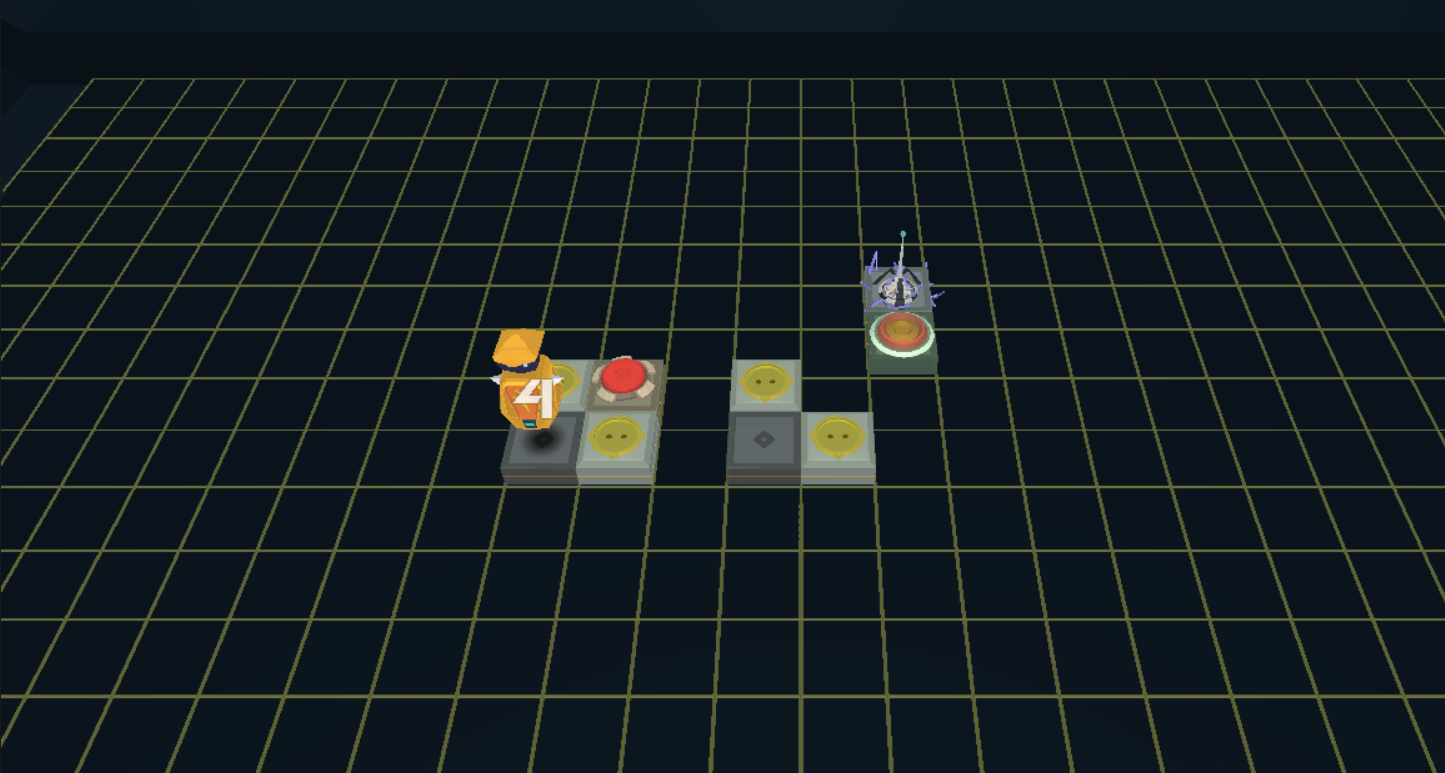
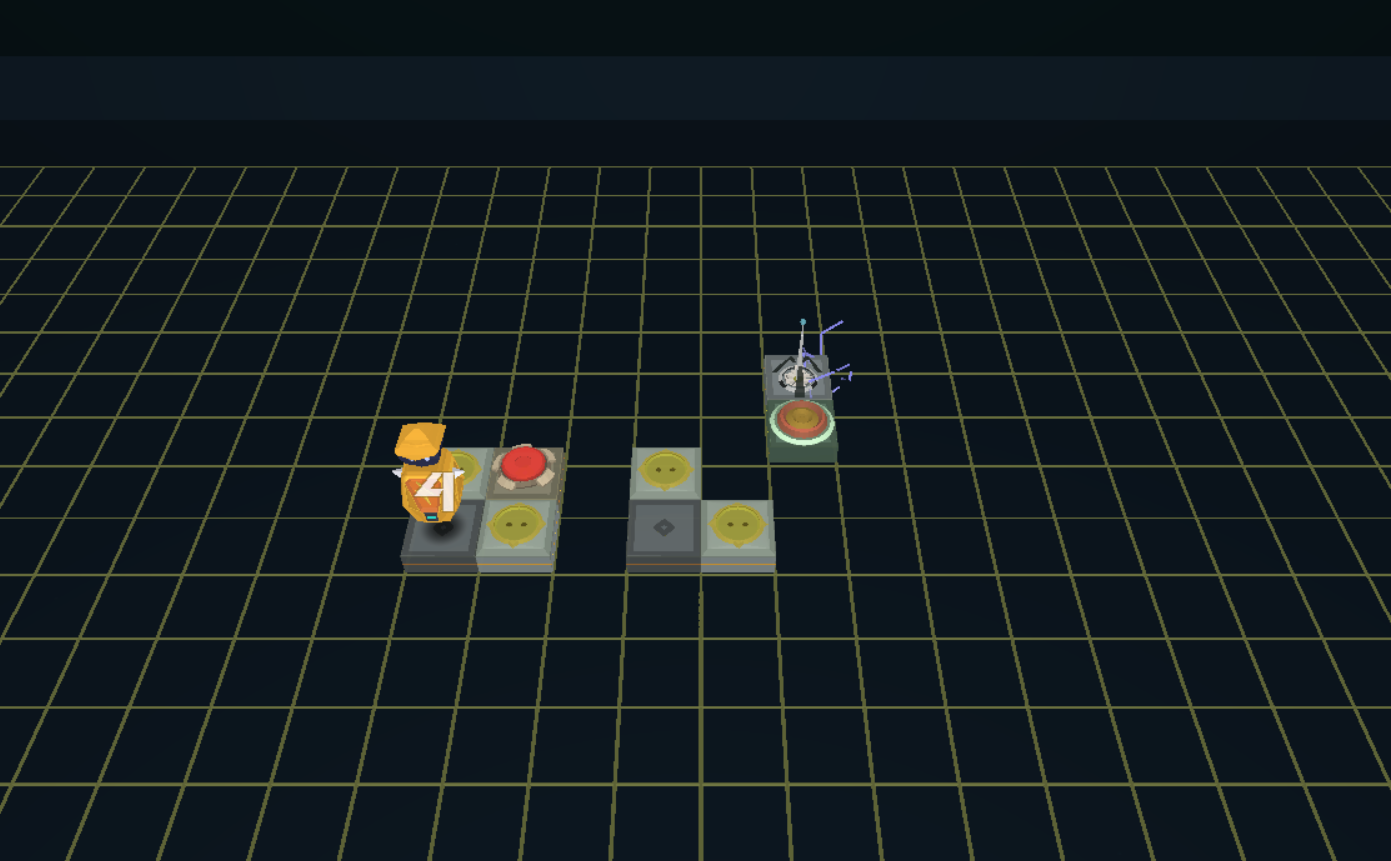
追加したステージの画像の拡縮がバラバラだったので修正

diff --git a/Scene.cpp b/Scene.cpp
@@ -254,8 +254,7 @@ void SceneGame::DrawSprite()
 	obj[0].DrawBoxSprite({ 160,50,0 }, 0.2f, { 1.0f,1.0f,1.0f,1.0f }, scene->texhandle[3]);
 	obj[1].DrawBoxSprite({ 280,50,0 }, 0.2f, { 1.0f,1.0f,1.0f,1.0f }, scene->texhandle[4]);
 
-	//
-	//obj[2].DrawBoxSprite({ 0,0,0 }, 1.0f, { 1.0f,1.0f,1.0f,0.7f }, scene->texhandle[6]);
+	obj[2].DrawBoxSprite({ 0,0,0 }, 1.0f, { 1.0f,1.0f,1.0f,0.7f }, scene->texhandle[6]);
 
 	if (!scene->player->isGoal)
 	{
